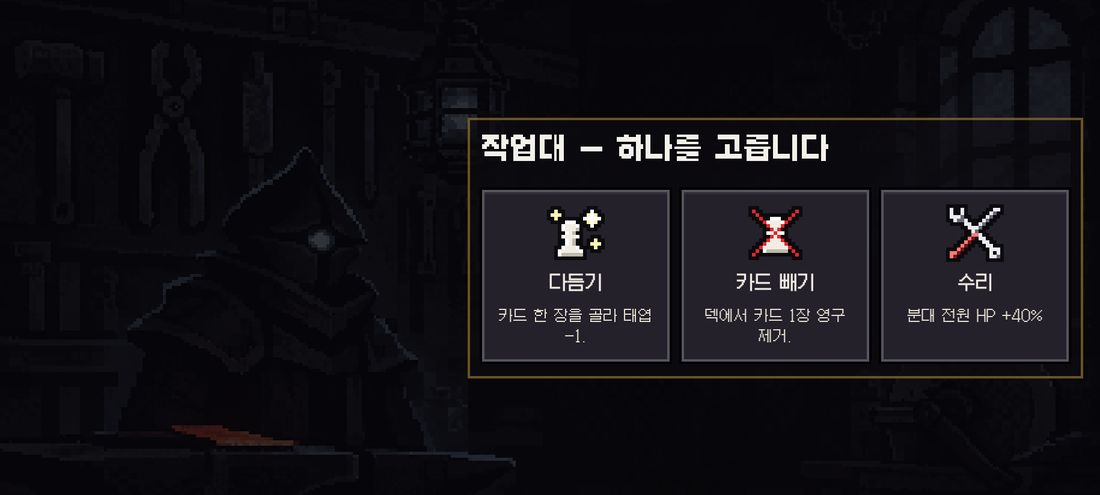
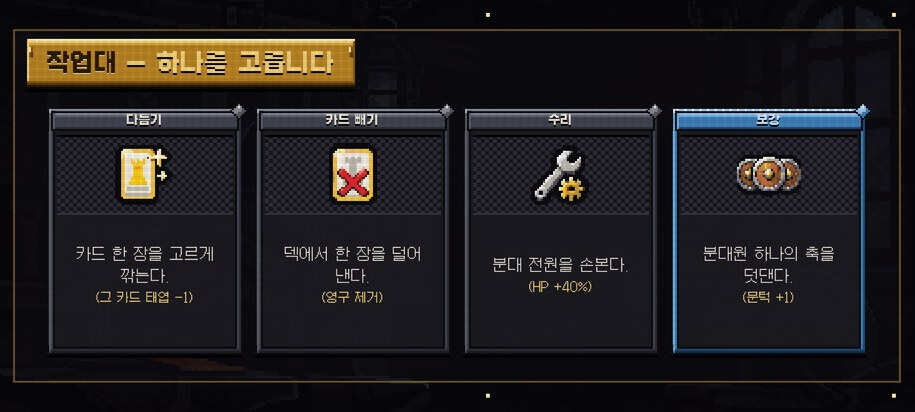
Graphic canon: refresh shots for D-317..D-332 screens
- 그래픽 정본 아티팩트에 새 화면을 넣었습니다: 고물상 · 작업대 가로 레일, 큰 확인 창, 나사 부족, 핵심 부품 · 부품 고르기, 손패 작은 표지가 있는 대국, 분대원 합류 말풍선, 반장 격파 컷, 도금왕 비웃음.

Claude-Session: https://claude.ai/code/session_011jC4ZCDKW43H5FzLWnYVpe

Changed region(s): [[0.0, 0.233, 1.0, 0.932], [0.0, 0.0583, 0.9792, 0.233], [0.9792, 0.0874, 1.0, 0.233]]

diff --git a/tools/artguide/build.py b/tools/artguide/build.py
@@ -65,14 +65,14 @@ BOSS_FRAMES = [('boss-600.jpg', '0.6초 · 모으기와 조명'), ('boss-1000.jp
 SCREENS = [
     ('출하 흐름', [('title.jpg', '타이틀 — 공장 배경 · 정품 폰 도장 · 붉은 사선 · 로고'), ('menu-gears.jpg', '메뉴 — 오른쪽 아래 맞물려 도는 도트 톱니 (D-225)'), ('map1.jpg', '1막 지도 — 막 표지 A-01 깔림 · 이어진 노드만 빛남'),
                  ('map2.jpg', '2막 지도 — A-02'), ('map3.jpg', '3막 지도 — A-03'), ('actintro.jpg', '막 전환 — 막 표지 위 서술 한 줄')]),
-    ('대국', [('battle.jpg', '대국 (1막 주조 판) — 황동 계기 창 · 태엽 구멍을 잇는 관 · 적 차례 도트 톱니 · 직전 적 수 회색 꺾쇠 (D-224 · D-225)'),
+    ('대국', [('battle.jpg', '대국 (2막 조립 판) — 왼쪽 손패 카드 · 오른쪽 계기 창 · 붉은 예고선 · HP 예측 숫자. 손패 이름 아래 「어떤 · 효과」 작은 표지, 기본 이동 카드는 표지 없음 (D-332)'),
              ('board-check.jpg', '2막 조립 판 · 검문 적 = 검붉은 쇠 속 칠 (D-224)'),
              ('board-boss.jpg', '3막 출하 판 · 반장 적 = 보라 속 칠 (D-224)'),
              ('armed.jpg', '탄창 한 발 장전 — 한 번 누르면 펼쳐져 설명이 나온다'),
              ('cracked.jpg', '심장 톱니가 깨진 분대원 — 외곽선은 그대로, 속 칠만 어둡게 (D-219)'),
              ('crackrite.jpg', '처음 쓰러질 때 — 큰 톱니가 흔들리다 깨진다 (폐기 의식 대신)')]),
     ('대국 밖', [('reward.jpg', '보상 — 등급 틀(일반 철 · 희귀 청강 · 황금 황동) + 정비 라인 배경 BG-04'),
-               ('shop.jpg', '고물상 — 이름판 위아래 여유 · 등급 보석 오른쪽 위 · 그림 32px · 황동 가격표 · BG-01'), ('forge.jpg', '작업대 — 외눈 정비공 BG-02'),
+               ('shop.jpg', '고물상 — 가로 레일 ◀▶ · 카드 · 부품 같은 틀(이름판 · 그림 창 · 세 칸 표지 · 덱 맞춤 줄 · 설명 · 가격표) (D-322 · D-325 · D-327)'), ('forge.jpg', '작업대 — 같은 틀의 선택지 카드 넷 (다듬기 · 카드 빼기 · 수리 · 보강) (D-322)'),
                ('event.jpg', '사건 — 왼쪽 장면 그림 · 오른쪽 서술 · 공장 뒷길 BG-03'), ('crew.jpg', '분대 보기 — 심장 톱니 두 칸'),
                ('endclear.jpg', '출하 완료 — E-01 (분대 실루엣이 창 위로 보이게)'), ('endfail.jpg', '출하 중단 — E-02')]),
 ]
@@ -156,6 +156,13 @@ UI_AUDIT = [
     ('ui-terms.jpg', '용어 — 낱장 칸 둘씩, 한 줄'),
     ('ui-event-result.jpg', '사건 결과 — 상황(문장마다 줄바꿈) + 대사(누가) + 결과 요약'),
     ('ui-shop.jpg', '고물상 — 머리 명패'),
+    ('ui-shop-confirm.jpg', '큰 확인 창 — 고른 카드 · 부품을 크게 펼쳐 확인 · 취소 (모든 고르기 공용)'),
+    ('ui-shop-poor.jpg', '나사 부족 — 누르기 전 회색 가격표, 누르면 독백 ‘나사가 모자라.’'),
+    ('ui-kit.jpg', '핵심 부품 — 같은 틀 · 세 칸 표지 (누가 · 어떤 · 합/곱/효과) + 맞물리는 카드'),
+    ('ui-part.jpg', '부품 하나 — 같은 틀'),
+    ('ui-crew-say.jpg', '분대원 합류 말풍선 — 기물마다 말투 (D-324 · D-326 · D-331)'),
+    ('ui-boss-fall.jpg', '반장 격파 컷 — 쓰러지는 서술 + 아홉째의 대꾸 (D-332)'),
+    ('ui-gilded-mock.jpg', '도금왕 2단계 — 쓰러뜨린 반장에게 한 대꾸를 비웃어 되돌려 준다 (D-332)'),
 ]
 # 사건 15종 — 실제 게임 녹화 (D-259, tools/artguide/events/record.cjs · record.py). 끝나면 처음부터
 EVENTS = [
